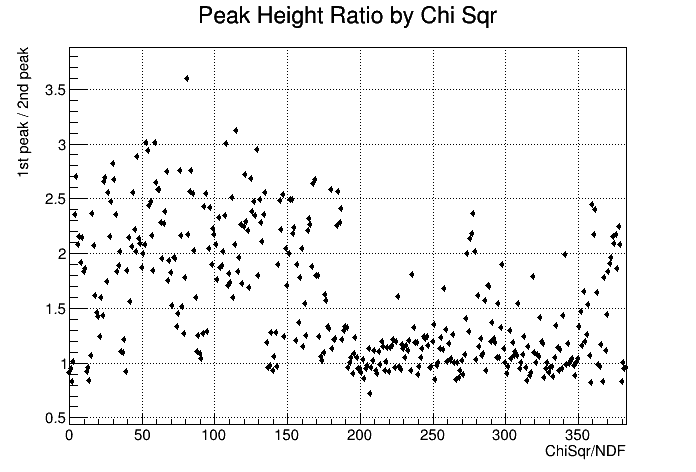
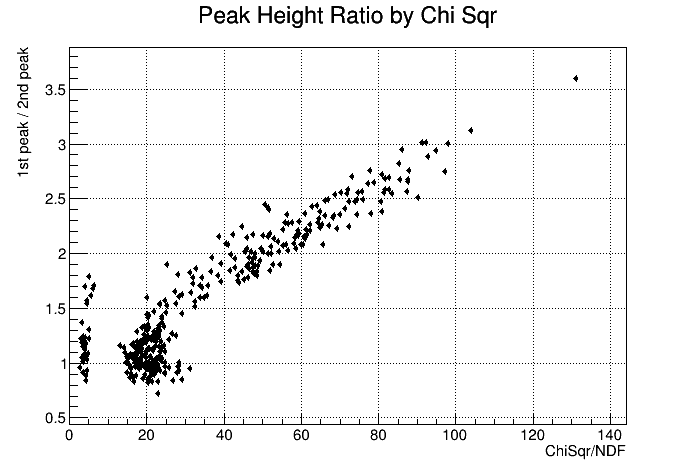
corrections to ratio_by_chisqr graph

diff --git a/pixel_gap/qa_output_00015750/all_fits.C b/pixel_gap/qa_output_00015750/all_fits.C
@@ -350,13 +350,13 @@ void all_fits () {
 
   // plot ratio of 1st and 2nd peak as a fn of chisqr
   TCanvas *c_ratio_chi = new TCanvas("c_ratio_chi", "", 700, 500);
-  TGraph *ratio_chi_graph = new TGraph(384, bins, ratios);
+  TGraph *ratio_chi_graph = new TGraph(384, chisqr_ndfs, ratios);
   ratio_chi_graph->SetTitle("Peak Height Ratio by Chi Sqr");
   ratio_chi_graph->GetXaxis()->SetTitle("ChiSqr/NDF");
   ratio_chi_graph->GetYaxis()->SetTitle("1st peak / 2nd peak");
   ratio_chi_graph->SetMarkerStyle(33);
   ratio_chi_graph->SetMarkerSize(1.0);
-  ratio_chi_graph->GetXaxis()->SetLimits(0.0, 383.0);
+  //ratio_chi_graph->GetXaxis()->SetLimits(0.0, 383.0);
   ratio_chi_graph->Draw("AP");
   // canvas->Update();
   c_ratio_chi->SetGrid();
